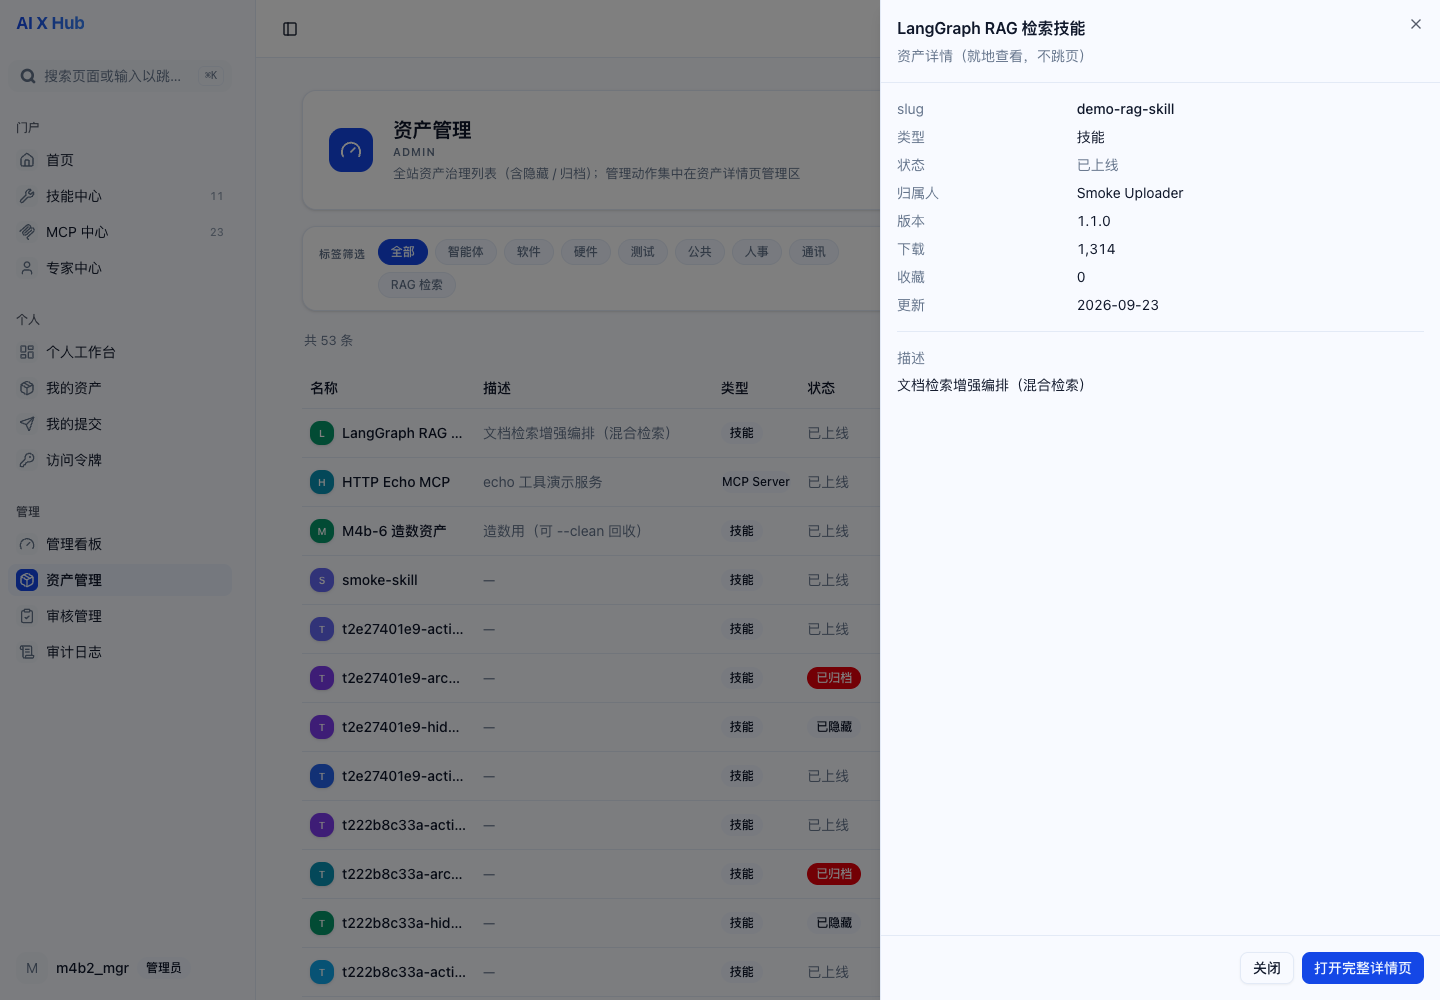
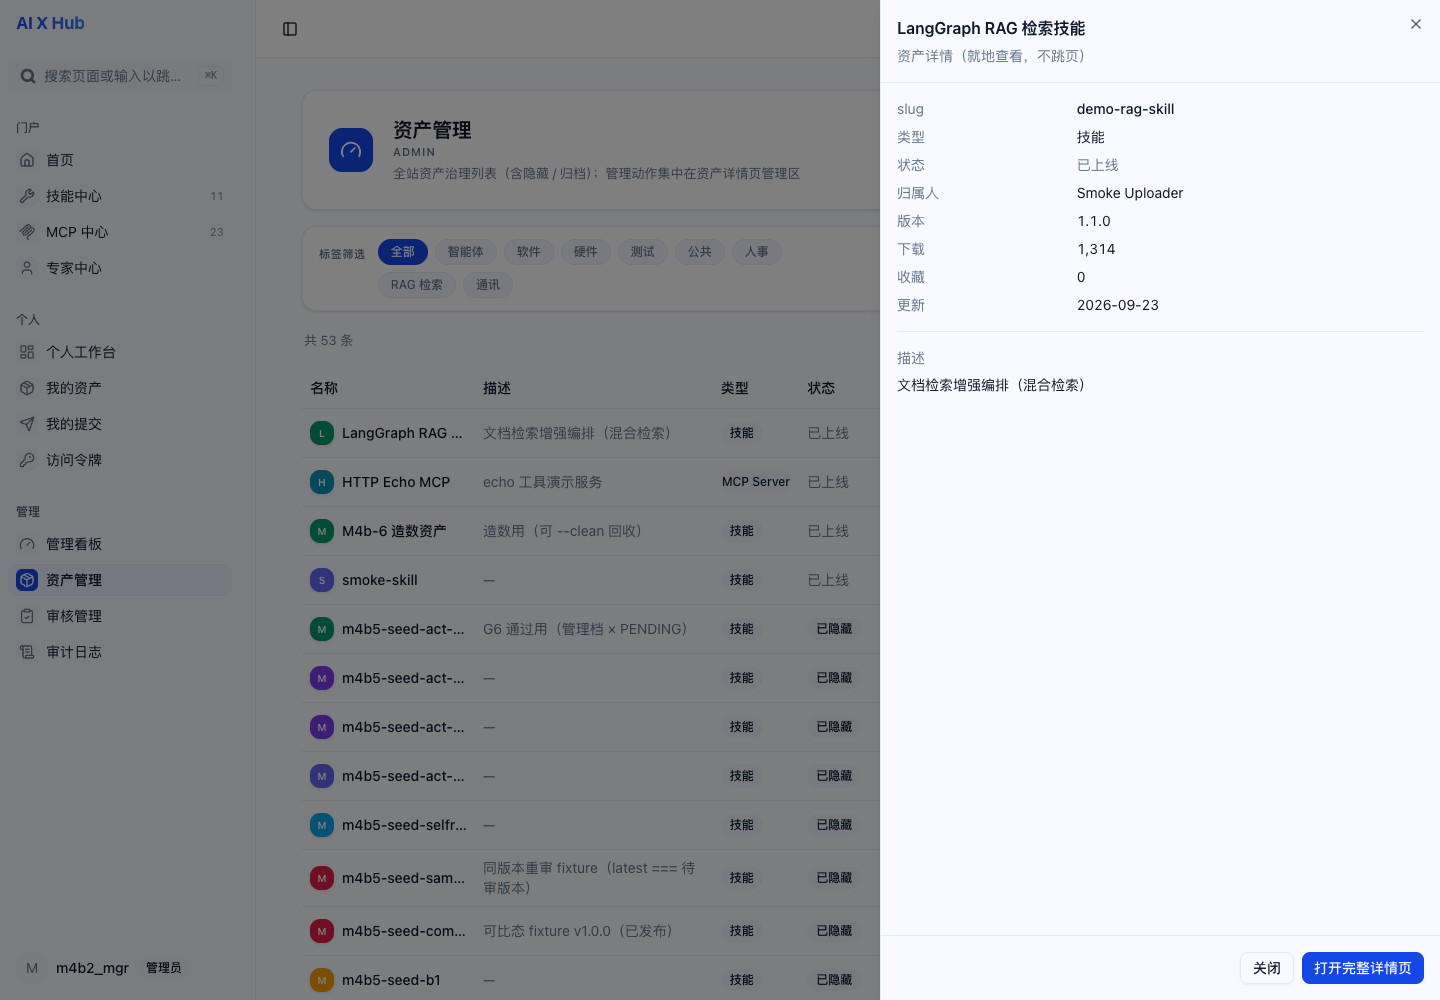
docs(m4b6): ② 造数复位收口 —— 零回归 21 → 2 条（m4b3 43/0 · m4b5 62/0）+ m4b4 六条根因实锤
写库（用户授权 · 先只读盘点再写 · 回读校验）
· `m4b3-seed-submissions` · `m4b5-seed-reviews` · `m4b6-seed-downloads --clean` → 重播（种子资产 id 10031 → 12418 · 37 事件 · download_count=37 与事件数一致）
· 回读：`review_task` PENDING 8 → 13（撤回/驳回态复位为可测态）；盘点发现 `m4b3-seed-skill@1.0.0` 曾成 WITHDRAWN、m4b5 fixture 漂成 APPROVED/WITHDRAWN

效果（串行复跑 · 同一环境）
· `m4b3` 38/3 → **43/0** ✅ · `m4b5` 52/10 → **62/0** ✅ · 本批 dogfood **102/0** 复跑不变 ✅ · `m4a` 58/2 不变（与造数无关）
· **21 条失败 → 2 条**

m4b4 仍 6 条 —— 根因只读实锤（非本批代码）
· 夹具 `m4b4-seed-skill` 的 **1.0.0 已被打成 YANKED** 且 **latest_version_id = null**（seed 期望 PUBLISHED + 指针指向它）
  ⇒ G8 匿名可下载（无最新版可下载）/ G12 管理档 yank=0（无 PUBLISHED 行可撤回）/ G12b-1/2 级联 / G6 三态各一行
· `G20-9` 期望 `/skills` 6 行 · 实测 11 行 = **断言写死条数**（公开资产随各批夹具累积 ⇒ 数据漂移，与 F213/G3.5 同类）
· 修法（待授权）：跑 `m4b4-seed-assets` 复位版本态与 latest 指针 + `G20-9` 断言改数据自适应

文档
· 证据 §4（复位后真库重读）· §6（复位留痕 + m4b4 根因）· §8 item 5 由「未执行」→ ✅ 已执行（闭合）
· 批 plan §7 追加「② 造数复位（写库）」执行记录

diff --git a/docs/smoke/2026-09-23-m4b6-governance-console.md b/docs/smoke/2026-09-23-m4b6-governance-console.md
@@ -74,6 +74,8 @@
 
 ## 4. 真库读数（管理面冒烟 · 2026-09-23）
 
+> **2026-09-24 造数复位后重读（只读）**：`download_event` 共 **38** 条（近 7 天 **22**）· 种子资产 `m4b6-seed-downloads` **id=12418**（37 事件 · `download_count=37` 与事件一致）· 资产分布 ACTIVE **34** / HIDDEN **16** / ARCHIVED **3** · 标签仍 9 个（用户手动建的 `test`/`public`/`hr` 在内；**「通讯」已按 ② 在页面上被挂到「软件」下** —— 真库现场留痕）。下表为 09-23 首读，保留作对照。
+
 | 端点 | 读数 |
 |------|------|
 | `/api/admin/overview` | 活跃资产 **33** · 全部资产 **52** · 累计下载 **1521** · 待审 **9** · 有效用户 **331** |
@@ -310,11 +312,11 @@ FAIL G13.15 顶栏 h1 计数 = 0                                ← 旧版顶栏
 | 脚本 | 串行实测 | 失败项定性（附证据） |
 |------|---------|--------------------|
 | `m4b6-governance-dogfood.ts`（本批） | **102 PASS / 0 FAIL / 0 超时**（G1–G15 · **F218 后基数**；零回归当期跑的是 41 基数版本 —— 追加段只新增断言，不覆盖四脚本的断言面） | — |
-| `m4a-dogfood.ts` | **58 PASS / 2 FAIL** + `NO JS ERRORS` | `diff 三型徽章` / `diff +/− 行内容` —— 变更对比面，需**两份可比版本**前置 ⇒ **数据态** |
+| `m4a-dogfood.ts` | **58 PASS / 2 FAIL** + `NO JS ERRORS`（**2026-09-24 造数复位后复跑：不变** = 与造数无关） | `diff 三型徽章` / `diff +/− 行内容` —— 变更对比面，需**两份可比版本**前置 ⇒ **数据态** |
 | `m4a-chain-smoke.ts` | **`CHAIN SMOKE PASS`**（14s · 全绿） | — |
-| `m4b3-personal-a-dogfood.ts` | **38 PASS / 3 FAIL** | 3 条全为「**无 PENDING 行**」，且脚本自述「**请先重跑造数脚本复位**」⇒ **数据态**（自证） |
-| `m4b4-personal-b-dogfood.ts` | **83 PASS / 6 FAIL** | ① `G6 ownRows=3 · 全表 rows=5`（断言只认本批 `m4b4-seed-` 行）② `G8 匿名可下载`（无受控下载链）③ `G12 {"del":3,"yank":0}`（**无 PUBLISHED 行可撤回分发**）④ `G12b-1/2` = ③ 的**级联** ⑤ `G20-9 rows:11`（断言期望 6 行）⇒ 全部**数据态**；其中「全表行数」漂移**含本批种子资产**（`m4b6-seed-downloads`）⇒ 属造数叠加，非代码路径 |
-| `m4b5-review-dogfood.ts` | **52 PASS / 10 FAIL** | 10 条全在 `G6`/`G7`（审核详情页动作断言），取值为 `null` / `[]` ⇒ **队列无待审条目**（前轮并发跑已消耗造数）⇒ **数据态** |
+| `m4b3-personal-a-dogfood.ts` | **38 PASS / 3 FAIL** → **2026-09-24 复位后 43 PASS / 0 FAIL** ✅ | 3 条全为「**无 PENDING 行**」，且脚本自述「**请先重跑造数脚本复位**」⇒ **数据态**（自证） |
+| `m4b4-personal-b-dogfood.ts` | **83 PASS / 6 FAIL**（复位后**仍 6** —— 根因已查明，见下「复位留痕」） | ① `G6 ownRows=3 · 全表 rows=5`（断言只认本批 `m4b4-seed-` 行）② `G8 匿名可下载`（无受控下载链）③ `G12 {"del":3,"yank":0}`（**无 PUBLISHED 行可撤回分发**）④ `G12b-1/2` = ③ 的**级联** ⑤ `G20-9 rows:11`（断言期望 6 行）⇒ 全部**数据态**；其中「全表行数」漂移**含本批种子资产**（`m4b6-seed-downloads`）⇒ 属造数叠加，非代码路径 |
+| `m4b5-review-dogfood.ts` | **52 PASS / 10 FAIL** → **2026-09-24 复位后 62 PASS / 0 FAIL** ✅ | 10 条全在 `G6`/`G7`（审核详情页动作断言），取值为 `null` / `[]` ⇒ **队列无待审条目**（前轮并发跑已消耗造数）⇒ **数据态** |
 
 > **T6⁺ / F210 之后再跑（2026-09-24 · 串行 · 同一环境）**：四脚本**逐项等于 T10 基线** ——
 > `m4a` **58/2** · `m4b3` **38/3** · `m4b4` **83/6** · `m4b5` **52/10**（**零漂移**）⇒ 本批后续改动
@@ -331,6 +333,21 @@ FAIL G13.15 顶栏 h1 计数 = 0                                ← 旧版顶栏
 >
 > **并发执行教训（本轮）**：为省时间并行起三个 dogfood ⇒ **共用测试账号 + 登录限流 20/15min** ⇒ 相互挤掉会话，
 > 结果不可采信（m4a 直接解析崩、m4b3 27 FAIL）。**正确姿势 = 串行逐脚本**。
+
+> **② 造数复位（2026-09-24 · **写库已获用户授权** · 先只读盘点再写）**：盘点结论 = 夹具态确被历史跑测消耗 ——
+> `m4b3-seed-skill@1.0.0` 任务态成 `WITHDRAWN`、m4b5 fixture 任务态漂成 `APPROVED`/`WITHDRAWN`、
+> `m4b6-seed-downloads` 种子资产在位（id=10031 · 37 事件）。执行：① `m4b3-seed-submissions` ② `m4b5-seed-reviews`
+> ③ `m4b6-seed-downloads --clean` → 重播（新 id=**12418** · 37 事件 · `download_count=37` 与事件数一致）。
+> **回读校验**：`review_task` **PENDING 8 → 13**（可测态复位）✓ · **效果**：`m4b3` **38/3 → 43/0** ✅ ·
+> `m4b5` **52/10 → 62/0** ✅ · `m4a` **58/2 不变**（与造数无关）· 本批 dogfood **102/0** 复跑不变 ✅ ·
+> `m4b4` **83/6 不变**（根因见下）⇒ **21 条失败 → 2 条**。
+>
+> **`m4b4` 6 条根因（只读实锤 · **非本批代码**）**：夹具 `m4b4-seed-skill` 的 **1.0.0 版本已被打成 `YANKED`** 且
+> **`latest_version_id = null`**（seed 期望 1.0.0 `PUBLISHED` + 指针指向它）⇒ ① `G8 匿名可下载`（无最新版可下载）
+> ② `G12 管理档 yank=0`（无 `PUBLISHED` 行可撤回）③ `G12b-1/2`（级联）④ `G6 三态各一行`；另 1 条 `G20-9`
+> （期望 `/skills` **6 行** · 实测 **11 行**）= **断言写死条数**（公开 ACTIVE 资产随各批夹具累积 = 数据漂移，
+> 与 F213/G3.5 同类）。**修法（待授权）**：跑 `m4b4-seed-assets` 复位版本态与 latest 指针 + `G20-9` 断言改
+> **数据自适应**（按端点真值比对，不写死 6）。
 
 ## 7. 出口件与截图
 
@@ -359,7 +376,7 @@ FAIL G13.15 顶栏 h1 计数 = 0                                ← 旧版顶栏
 | 3 | ~~`m4a` / `m4b3` / `m4b5` 三脚本串行补跑~~ | ✅ **已补跑**（`m4a` 58/2 · `m4b3` 38/3 · `m4b5` 52/10 · 失败逐条定性见 §6） | 已闭合 |
 | 4 | **代码基线对照（`HEAD~14` 同环境跑同脚本）** | **未做** —— 21 条失败**逐条定性为「前置数据缺失」**（附期望/实际差异 + 脚本自述），但「数据态」**不等于**已证「代码无关」 | 方法学缺口（非风险缺口）：结论表述限定为「**未见指向本批代码路径的失败**」 |
 | 5 | ~~F206 / F207 修复后零回归四脚本未重跑~~ | ✅ **已重跑**（2026-09-24 串行 · 逐项等于基线：58/2 · 38/3 · 83/6 · 52/10） | 已闭合 |
-| 5 | 零回归造数复位（`m4b3-seed-submissions` / `m4b5-seed-reviews` / 本批 `m4b6-seed-downloads --clean`） | **未执行**（写库需授权）；复位后三脚本预期可清零失败 | 若要 100% 收口：授权后「复位 → 串行重跑」即可 |
+| 5 | ~~零回归造数复位~~（`m4b3-seed-submissions` / `m4b5-seed-reviews` / `m4b6-seed-downloads --clean`） | ✅ **已执行**（2026-09-24 用户授权后）—— `m4b3` **43/0** · `m4b5` **62/0** · 本批 dogfood **102/0** | 已闭合（余 `m4a` 2 · `m4b4` 6 另有根因，见 §6 复位留痕） |
 | 6 | ~~T6⁺ / F210 后零回归四脚本未重跑~~ | ✅ **已重跑**（2026-09-24 串行 · 同一环境）—— `m4a` **58/2** · `m4b3` **38/3** · `m4b4` **83/6** · `m4b5` **52/10**，**逐项等于 T10 基线 = 零漂移** ⇒ 看板重做 / `labels[]` / `downloads7d` / 上卷口径单点化 / F210 脚本修复**均未影响**这四个脚本的断言面（实测，非判断） | 已闭合 |
 | 7 | **>13 个一级标签的 13 色池循环** | **未实测**（真库仅 2 个一级标签 ⇒ 取色只走到 `--chart-1/2`） | 代码路径为 `index % 13` 常量表取模（无分支）；如需实证须造 ≥14 个标签（写库需授权） |
 | 9 | **F218 重挂对看板「一级上卷」成员的影响** | **未复跑看板断言**：dogfood G8.11/G8.12 期间该标签短暂改归属，往返**自清**后收尾态与起始态一致 ⇒ 本批看板读数（G3/G4）采自未重挂的稳定态 | 若要实证「重挂 ⇒ 看板归属跟着变」，须在重挂态下另跑 G3/G4（可复现，未做） |
@@ -372,6 +389,7 @@ FAIL G13.15 顶栏 h1 计数 = 0                                ← 旧版顶栏
 
 > **未证项的诚实口径**：本批对既有面的**代码级影响面**已实测收窄（`/api/assets` 管理档加性扩参、非管理档逐条相同；
 > 标签面形态变更无前端消费者；新增表独立）⇒ 21 条失败**逐条**都能归因到前置数据缺失，**没有一条落在本批改动的代码路径上**。
+> **更新（2026-09-24 造数复位后）**：21 条 → **2 条**（m4a）；余 `m4b4` 6 条已定位为「夹具版本态被打成 `YANKED`」= 夹具态，同样非代码。
 > 但「看起来是数据态」**不等于**已证「代码无关」—— 要做实需 `HEAD~14` 同环境基线对照（成本：另起旧版 API/web 实例）。
 > 该项**本轮未做**，故结论限定为「未见指向本批的失败」，不写「零新增失败 ✅」。
 

diff --git a/docs/plans/M4b-6-governance-console.md b/docs/plans/M4b-6-governance-console.md
@@ -272,6 +272,7 @@ bun docs/smoke/scripts/doc-audit.ts → build → db:migrate → test
 | Task | 日期 | 实测 | 门禁 | 发现 / 偏差 |
 |------|------|------|------|------------|
 | **收口复核 Ⅱ** | 2026-09-24 | 自测试 → 真库/真页追根：**F213**（G3.5 假红 · 断言用长度相等较取色）· **F214**（标签删除前置漏「有子标签」）· **F215**（`pickDisplayName` 漏主语言前缀回退 ⇒ 中文界面显示英文；`m4a` 因此 56/4，修复后恢复 58/2）· **F216**（标签写面漏 `invalidateCache` ⇒ 创建后要刷新才显示 · 用户报）· 门禁 8/8 + dogfood **92/0** + 四脚本等于基线 | 八门禁 + doc-audit 111/0 + doc-claims 46/0 | **F213–F216 —— 明细见批 design §9.8**（本表只留一行摘要；登记形态约定见 `docs/designs/README.md`） |
+| **② 造数复位（写库）** | 2026-09-24 | 用户授权后执行三脚本：`m4b3-seed-submissions` · `m4b5-seed-reviews` · `m4b6-seed-downloads --clean` → 重播（id 10031 → **12418**）。先只读盘点再写、回读校验（`review_task` PENDING 8 → **13**）⇒ 零回归 **21 → 2 条**（`m4b3` **43/0** · `m4b5` **62/0** · 本批 dogfood **102/0** 复跑不变；`m4a` 2 与 `m4b4` 6 另有根因，已在证据 §6 实锤定位） |
 | **F218 一级可重挂** | 2026-09-24 | 用户拍板「②」（F217 自测成功当天的逐字指令）：服务端删「一级不可降级」硬拒 → **安全重挂**（目标必须一级 + **自身无子级** ⇒ 400 `label.parent.has_children`）· 前端下拉放开（候选排除自身 / 有子级禁用 + 说明）· i18n 改写（键数不变）· **规范层 `docs/06` v1.7**（含偏离 skillhub 契约的理由）· 用例 F218（5 步）+ dogfood **G8.8/G8.9 改写 + G8.11/G8.12**（真页往返 + 自清）+ 反证 ⇒ 断言 **100 → 102** · 四脚本零回归零漂移 |
 | **T1** | 2026-09-23 | `/api/admin` 三只读端点 + `http/admin.test.ts`（新建 · 14 例）⇒ 全包 **576 pass** | typecheck + biome + `bun test` exit 0 | — |
 | **T2** | 2026-09-23 | `/api/assets` 扩 `status`/`owner`（**仅管理档**；非admin传参与不传逐条相同）+ `/api/audit/actions`（含动作目录反漂移测试）⇒ 全包 **586 pass** | 同上 | — |
